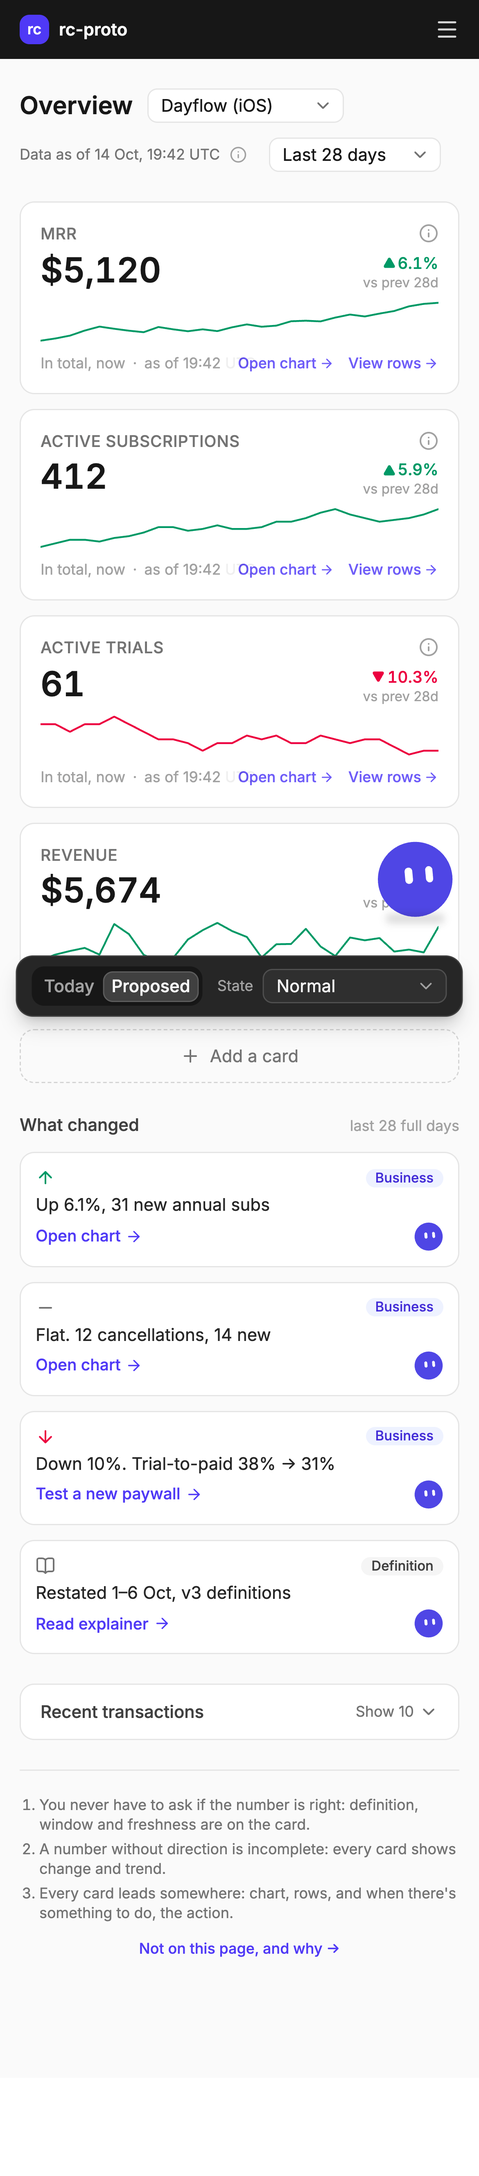
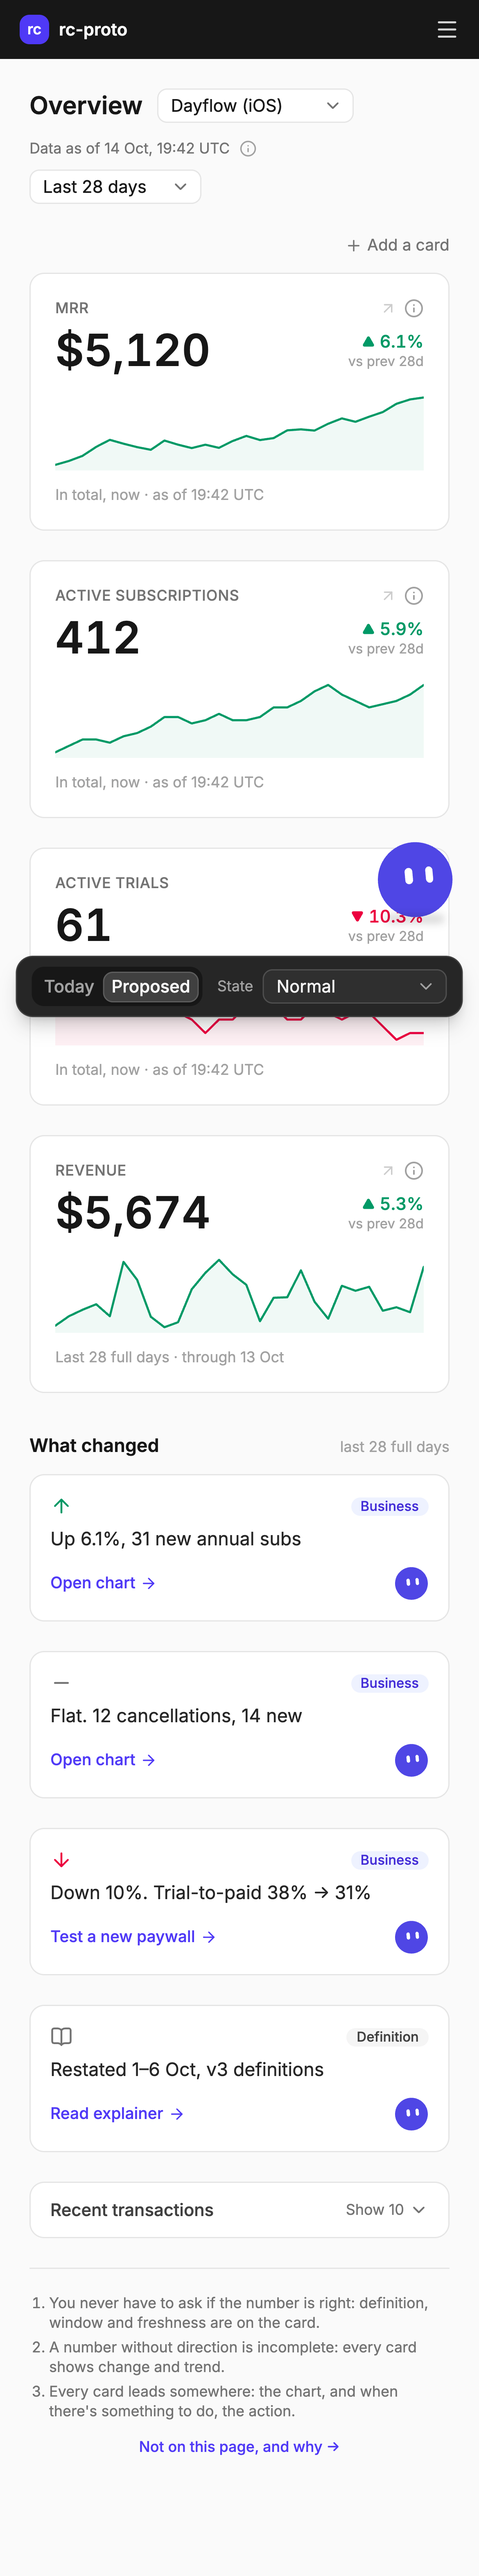
Round 9 E: Rico chips and replies (definition, next step), gray origin circle when dragging
Also: chart modal fits a phone as a full-screen sheet; README.

diff --git a/src/components/Drawers.tsx b/src/components/Drawers.tsx
@@ -26,7 +26,7 @@ export function SideDrawer({
 
 /* ---------- Rico ---------- */
 
-export const RICO_CHIPS = ["Why did MRR go up?", "Is this number right?", "What should I look at today?"];
+export const RICO_CHIPS = ["Why did MRR go up?", "How is MRR calculated?", "What should I do next?"];
 
 type Message = {
   from: "me" | "rico";
@@ -34,26 +34,34 @@ type Message = {
   chart?: { label: string; metric: string };
   /** A card Rico offers to put back on the page, through the same logic as (+). */
   addCard?: { label: string; id: OptionalCardId };
+  /** The rows behind a metric (the rows stub). */
+  rows?: { label: string; metric: string };
+  /** The paywall experiment stub. */
+  experiment?: { label: string };
 };
 
 function reply(q: string): Message {
   const t = q.toLowerCase();
   if (t.includes("new customers") || t.includes("active customers"))
     return { from: "rico", text: "Those cards moved off the defaults. New customers, last 28 full days: 1,148, up 0.3%. Add it back?", addCard: { label: "Add card", id: "new_customers" } };
+  // Before "mrr": "How is MRR calculated?" is about the definition, not the change.
+  if (t.includes("calculated") || t.includes("definition"))
+    return { from: "rico", text: "MRR = monthly recurring revenue from active paid subscriptions, normalized to one month, in USD. Same definition as Charts v3. Computed at 19:42 UTC today. Want the 412 subscriptions behind it?", rows: { label: "View rows", metric: "MRR" } };
+  if (t.includes("do next") || t.includes("should i do"))
+    return { from: "rico", text: "Trial-to-paid fell from 38% to 31% this period, mostly on Android. That's the biggest lever right now. Start a paywall test for Android trials?", experiment: { label: "Test a new paywall" } };
   if (t.includes("mrr"))
     return { from: "rico", text: "MRR is $5,120, up 6.1% vs the previous 28 days. 31 new annual subscriptions drove most of it. Open the MRR chart?", chart: { label: "Open MRR chart", metric: "MRR" } };
   if (t.includes("trial"))
     return { from: "rico", text: "Trial-to-paid conversion fell from 38% to 31% this period. Most of the drop is on Android. Want the conversion chart?", chart: { label: "Open conversion chart", metric: "Trial conversion" } };
-  if (["right", "correct", "trust"].some((w) => t.includes(w)))
-    return { from: "rico", text: "All numbers on this page use Charts v3 definitions and the same cutoff, 14 Oct 19:42 UTC. Customer cards are cached, as of 18:00 UTC." };
   return { from: "rico", text: "I can answer questions about the numbers on this page, what changed, and your business. Try: why did MRR go up?" };
 }
 
 export function RicoDrawer({
-  open, onOpenChange, draft, onDraftChange, onOpenChart, onAddCard,
+  open, onOpenChange, draft, onDraftChange, onOpenChart, onOpenRows, onExperiment, onAddCard,
 }: {
   open: boolean; onOpenChange: (o: boolean) => void; draft: string; onDraftChange: (v: string) => void;
-  onOpenChart: (metric: string) => void; onAddCard: (id: OptionalCardId) => void;
+  onOpenChart: (metric: string) => void; onOpenRows: (metric: string) => void; onExperiment: () => void;
+  onAddCard: (id: OptionalCardId) => void;
 }) {
   const [messages, setMessages] = useState<Message[]>([
     { from: "rico", text: "Hi, I'm Rico. Ask me about the numbers on this page, what changed, or your business." },
@@ -105,6 +113,16 @@ export function RicoDrawer({
                 {!me && (tail ? <RicoAvatar size={28} className="shrink-0" /> : <span className="w-7 shrink-0" />)}
                 <Bubble me={me} tail={tail}>
                   {m.text}
+                  {m.rows && (
+                    <button onClick={() => onOpenRows(m.rows!.metric)} className="mt-2 flex w-full items-center justify-between gap-2 rounded-xl bg-white px-3 py-2 text-left text-[13px] font-medium text-[#0a84ff] hover:bg-neutral-50">
+                      {m.rows.label} <ArrowRight className="size-3.5" />
+                    </button>
+                  )}
+                  {m.experiment && (
+                    <button onClick={onExperiment} className="mt-2 flex w-full items-center justify-between gap-2 rounded-xl bg-white px-3 py-2 text-left text-[13px] font-medium text-[#0a84ff] hover:bg-neutral-50">
+                      {m.experiment.label} <ArrowRight className="size-3.5" />
+                    </button>
+                  )}
                   {m.addCard && (
                     <button onClick={() => onAddCard(m.addCard!.id)} className="mt-2 flex w-full items-center justify-between gap-2 rounded-xl bg-white px-3 py-2 text-left text-[13px] font-medium text-[#0a84ff] hover:bg-neutral-50">
                       {m.addCard.label} <Plus className="size-3.5" />

diff --git a/src/components/Rico.tsx b/src/components/Rico.tsx
@@ -146,25 +146,29 @@ export function RicoLauncher({ onOpen }: { onOpen: () => void }) {
   const left = corner === "bl" || corner === "tl";
   return (
     <>
-      {/* Drop spots: always mounted so they can be measured, shown in the other corners while
-          dragging. Rico's own corner stays invisible but still counts, so letting go near it
-          puts Rico back. */}
+      {/* Drop spots: always mounted so they can be measured. While dragging, the other corners
+          show "Drop here"; Rico's own corner shows a plain gray circle where it came from.
+          Letting go near it puts Rico back. */}
       {CORNERS.map((c) => (
         <div
           key={c}
           ref={(el) => { spots.current[c] = el; }}
           aria-hidden
-          className={cn("pointer-events-none fixed z-40 grid place-items-center", CORNER_CLASS[c], (!drag || c === corner) && "invisible")}
+          className={cn("pointer-events-none fixed z-40 grid place-items-center", CORNER_CLASS[c], !drag && "invisible")}
           style={{ width: size, height: size }}
         >
-          <span
-            className={cn(
-              "grid size-[62%] place-items-center rounded-full border-2 border-dashed text-center text-[10px] leading-tight font-medium transition-all duration-150",
-              drag?.target === c ? "scale-110 border-indigo-500 bg-indigo-100/80 text-indigo-700" : "border-indigo-300 bg-white/70 text-indigo-400",
-            )}
-          >
-            Drop<br />here
-          </span>
+          {c === corner ? (
+            <span className="size-[62%] rounded-full bg-neutral-200" />
+          ) : (
+            <span
+              className={cn(
+                "grid size-[62%] place-items-center rounded-full border-2 border-dashed text-center text-[10px] leading-tight font-medium transition-all duration-150",
+                drag?.target === c ? "scale-110 border-indigo-500 bg-indigo-100/80 text-indigo-700" : "border-indigo-300 bg-white/70 text-indigo-400",
+              )}
+            >
+              Drop<br />here
+            </span>
+          )}
         </div>
       ))}
 

diff --git a/src/components/ChartModal.tsx b/src/components/ChartModal.tsx
@@ -71,7 +71,7 @@ function LineChart({ cur, prev, unit, start, end }: { cur: number[]; prev: numbe
   const mid = Math.floor((n - 1) / 2);
 
   return (
-    <div ref={box} className="relative">
+    <div ref={box} className="relative w-full min-w-0">
       <svg
         ref={svg}
         width={W}
@@ -127,9 +127,9 @@ export function ChartModal({
     <Dialog open={open} onOpenChange={onOpenChange}>
       <DialogContent
         className={cn(
-          "gap-4 p-6 sm:max-w-[720px]",
+          "grid-cols-1 gap-4 p-6 sm:max-w-[720px]", // grid-cols-1 = minmax(0, 1fr): the chart follows the dialog, not the other way round
           // Phone: a full-screen sheet.
-          "max-sm:inset-0 max-sm:top-0 max-sm:left-0 max-sm:h-dvh max-sm:max-w-none max-sm:translate-x-0 max-sm:translate-y-0 max-sm:overflow-y-auto max-sm:rounded-none max-sm:p-4",
+          "max-sm:inset-0 max-sm:top-0 max-sm:left-0 max-sm:h-dvh max-sm:max-w-none max-sm:translate-x-0 max-sm:translate-y-0 max-sm:content-start max-sm:overflow-y-auto max-sm:rounded-none max-sm:p-4",
         )}
       >
         {ctx && card && p && (

diff --git a/src/App.tsx b/src/App.tsx
@@ -71,6 +71,11 @@ export default function App() {
     setChart({ metric, definition: card?.definition, cardId: card?.id });
     setChartOpen(true);
   };
+  const openMetricRows = (metric: string) => {
+    const card = allCards.find((c) => c.label === metric);
+    setChart({ metric, definition: card?.definition, cardId: card?.id });
+    setRowsOpen(true);
+  };
   const openChart = (c: CardData) => { setChart({ metric: c.label, definition: c.definition, cardId: c.id }); setChartOpen(true); };
   const openRows = (c: CardData) => { setChart({ metric: c.label, definition: c.definition, cardId: c.id }); setRowsOpen(true); };
 
@@ -259,6 +264,8 @@ export default function App() {
         draft={ricoDraft}
         onDraftChange={setRicoDraft}
         onOpenChart={(metric) => { setRicoOpen(false); openMetric(metric); }}
+        onOpenRows={(metric) => { setRicoOpen(false); openMetricRows(metric); }}
+        onExperiment={() => { setRicoOpen(false); setExperimentOpen(true); }}
         onAddCard={(id) => { setRicoOpen(false); addCard(id); }}
       />
       <SetupDrawer

diff --git a/README.md b/README.md
@@ -22,31 +22,31 @@ Push to `main` deploys to Netlify.
 
 - **Prototype dock** (dark, floating at the bottom): Today / Proposed tabs and the State
   select (Normal, Below volume gate, New project). State only swaps the JSON file.
-- **Proposed** (round 6 layout): header with app selector, the one "Data as of" cutoff and
-  the 7d / 28d / 90d picker (it drives Revenue and every delta). One row of four cards:
-  MRR, Active subscriptions, Active trials, Revenue (4 columns, 2x2 on a tablet, 1 on a
-  phone), each carrying its own window ("In total, now" / "Last 28 full days · through
-  13 Oct"). **(+)** at the row's end (a dashed "Add a card" row on a phone) adds up to two of
-  New customers, Active customers, Trial conversion, Churn, Realized LTV, each removable,
-  in memory only. **What changed** (round 8): one row of four compact tiles in the same
-  columns as the four cards, each under its card (icon + tag, a sentence of at most two
-  lines, the action link, and a 24px Rico button that pre-fills the chat with the sentence);
-  below the volume gate four muted tiles. Recent
+- **Proposed** (round 9 layout): a 1120px column with 24px sides. Header with app selector,
+  the one "Data as of" cutoff and the 7d / 28d / 90d picker (it drives Revenue and every
+  delta). A line with "+ Add a card" (adds up to two of New customers, Active customers, Trial
+  conversion, Churn, Realized LTV, removable, in memory only; they go to a second row), then
+  one row of four cards: MRR, Active subscriptions, Active trials, Revenue (4 columns, 2x2 on
+  a tablet, 1 on a phone). **What changed**: four tiles in the same grid, each under its card
+  (icon + tag, a sentence of at most two lines, the action link, and a 28px Rico button that
+  pre-fills the chat with the sentence); below the volume gate four muted tiles. Recent
   transactions (collapsed); footer with the 3 design rules and "Not on this page, and why".
 - **Rico mascot** (round 5): an indigo blob whose eyes are holes in the body, drawn with the
   [bloub](https://github.com/jeremy-prt/bloub) engine (MIT, vendored in `src/vendor/bloub`,
   ported from its Vue component to `BloubRico.tsx`). It floats in the bottom-right corner
   (above the dock on a phone), blinks, lets its gaze drift and follows the pointer. Hover
   gives one small wobble, lights the face up and shows "Ask Rico anything about this page".
-  Drag Rico and dashed "Drop here" spots appear in the other corners; it snaps to the
+  Drag Rico and dashed "Drop here" spots appear in the other corners (a plain gray circle
+  marks where it came from); it snaps to the
   nearest one on release (remembered per browser). Click opens the chat: a floating white
   card that slides in from the right with no sheet behind it (420px, full width on a
   phone), with the live Rico in its header (it turns into bloub's "thinking" dots while
   replying), iMessage-style bubbles with Rico's face beside its own, the 3 suggested prompts
   stacked above the input (a sent one disappears), a typing
-  bubble, and a mocked chat: replies after 600ms, keyed on "new/active customers" (offers
-  "Add card", same logic as (+)), "mrr", "trial", "right/correct/trust", else a default. MRR
-  and trial replies have a button to the chart modal. "Ask Rico why" on a What changed tile
+  bubble, and a mocked chat: chips "Why did MRR go up?", "How is MRR calculated?", "What
+  should I do next?"; replies after 600ms, keyed on "new/active customers" (offers "Add
+  card"), "calculated/definition" (offers "View rows"), "do next/should i do" (offers "Test a
+  new paywall"), "mrr" and "trial" (offer the chart), else a default. "Ask Rico why" on a What changed tile
   pre-fills the chat input with "<card>: <sentence>" (round 8; it used to send it).
 - **New project**, two separate designs with separate data and state:
   - **Today** (round 7): RevenueCat's real onboarding block from `onboarding` in
@@ -60,11 +60,21 @@ Push to `main` deploys to Netlify.
     SDK step, "Open <flow>" (toast stub) and a "Mark done" checkbox that updates the list.
     The 4 cards stay empty ("—", "No data yet") until "Show sample data" is on; then they fill
     with watermarked sample values and the sparklines draw in (600ms, ease-out).
-- **Card** (round 8, lighter): label and (i) definition popover (Active subscriptions adds
-  incl./excl. cancelled counts); big number with a delta chip on the right ("▲ 5.9%", "vs
-  prev 28d" under it; Churn going up is red); a 36px sparkline; one muted window and
-  freshness line. "Open chart / View rows" fade in on hover or focus (always shown on touch
-  devices). Clicking anywhere on the card opens the chart.
+- **Card** (round 9): 200px tall. Label and (i); 36px number with a delta chip on the same
+  line ("▲ 5.9%", "vs prev 28d" under it; Churn going up is red); a 64px sparkline with a 6%
+  wash; one muted line ("In total, now · as of 19:42 UTC", Revenue: "Last 28 full days ·
+  through 13 Oct"). No links on the face: the whole card opens the chart, and an arrow fades in
+  top-right on hover (always shown on touch). The (i) is a trust panel: definition, "Same
+  definition as Charts v3", incl./excl. cancelled for Active subscriptions, and "See the 412
+  subscriptions behind this number →" (rows stub; trials, MRR and Revenue's 1,203
+  transactions get their own wording).
+- **Chart modal** (round 9): metric, definition, period and carried-over cutoff, then an
+  inline SVG chart (no library) of this period (solid indigo, light fill) against the
+  previous one (dashed), three round gridlines, first/middle/last dates, a hover guide with
+  "30 Sep · $4,962 · prev $4,620", a legend, and Start/End/Change (or Previous/This
+  period/Change for period cards) from the data. "View rows (200)" and "Open in Charts →"
+  (toast). Full-screen sheet on a phone. `sparkline_prev` and `prev_value` per period come
+  from the same series as the delta, so the dashed line and the change always agree.
 - **Today**: the "before": Rico bar, 6 plain cards, recent transactions table (unchanged;
   New and Active customers come from `optional_cards` there). New project adds the
   onboarding block on top and shows every card at 0.
@@ -113,11 +123,10 @@ Stack: Vite + React 19 + TypeScript, Tailwind v4, shadcn/ui on **Base UI** primi
 - **New project Now row**: "Show sample data" switch sits left of "Data as of".
 - **Below volume gate**: deltas and sparklines hidden with "Not enough data yet".
 - **Default Rico reply** now says "the numbers on this page" instead of "the six numbers".
-- **Card height** is ~177px at 1280px, not the ~150px target: in a quarter-width card
-  Revenue's line ("Last 28 full days · through 13 Oct · as of 19:42 UTC") needs two lines,
-  and the row keeps one height. With a one-line window the cards come to ~157px.
-- **What changed tiles** carry a `card_id`; the row is laid out with an empty 32px slot where
-  (+) sits above, so each tile shares its card's column exactly.
+- **What changed tiles** carry a `card_id` and share the cards' grid (`src/lib/grid.ts`), so
+  each tile sits exactly under its card.
+- **Round 9 applies to Proposed only.** Today keeps its 1200px page and plain cards.
+- **No clipboard writes** existed in the app code, so E3 needed no change.
 - **"Card swapping / custom layout"** stays in "Not on this page": (+) adds from a fixed list
   of five, it doesn't rearrange or swap the defaults.
 - **Screenshot numbering** follows the briefs: 08 (+) picker, 09 What changed tiles, 10 Today

diff --git a/.ultra/todo.md b/.ultra/todo.md
@@ -43,3 +43,10 @@
 - [x] What changed: 4 tiles aligned under the 4 cards, Rico button pre-fills the chat, gated tiles
 - [x] Lighter KPI cards: delta chip, 36px sparkline, hover links
 - [x] Screenshots 02, 03, 09; README; deploy
+
+## Round 9: final visual pass on Proposed (75 min box)
+- [x] A. 1120px column, "+ Add a card" above the grid
+- [x] B. 200px KPI cards, no face links, trust panel in (i)
+- [x] C. What changed tiles at 120px under the cards
+- [x] D. Chart modal with drawn SVG chart vs previous period
+- [x] E. Rico chips and replies, gray origin circle when dragging
